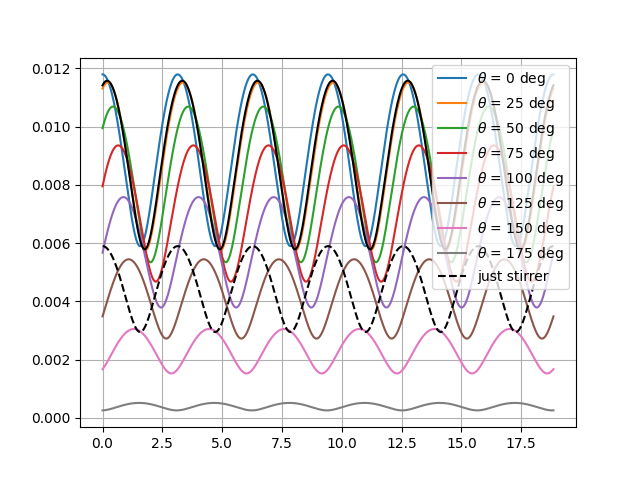
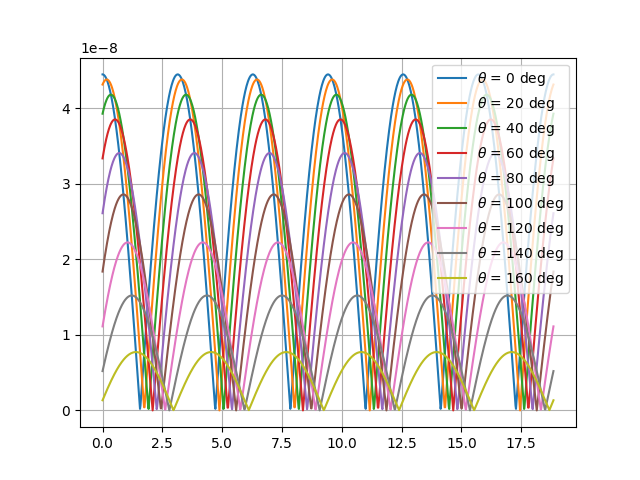
model

diff --git a/Simus/SimMagnetometre.py b/Simus/SimMagnetometre.py
@@ -1,6 +1,12 @@
 import numpy as np
-
+mu0 = 4*np.pi*1e-7
 # coords : (x,y) 
+
+def Hall(B,I=np.array((-1,0,0)),Rh=3,t=1):
+    Bext = np.concatenate((B,np.array([[0] for i in range(len(B))])),axis=1) #3e dim
+    print(Bext)
+    return np.array([np.linalg.norm(Rh*np.matmul(I/t,Be)) for Be in Bext])
+
 def base(r=np.array((3,0)),p=1,thetas = np.linspace(0,6*np.pi,1000)):
     pn,ps = np.array((.5,0)),np.array((-.5,0))
     def rotMatr(theta,v):
@@ -24,7 +30,7 @@ def base(r=np.array((3,0)),p=1,thetas = np.linspace(0,6*np.pi,1000)):
     a =  np.array([np.arctan2(*i) for i in h])
     return N,a
 
-def sim(a,r=np.array((3,0)),p=1,thetas = np.linspace(0,6*np.pi,1000),l=1):
+def sim(a,r=np.array((3,0)),p=1,thetas = np.linspace(0,6*np.pi,1000),l=1,returnB=False):
     pn,ps = np.array((l/2,0)),np.array((-l/2,0))
     alpha = a
     retard = alpha*np.pi/180 
@@ -43,7 +49,7 @@ def sim(a,r=np.array((3,0)),p=1,thetas = np.linspace(0,6*np.pi,1000),l=1):
 
     pN = [rotMatr(thetas[i],pn) for i in range(len(thetas))] #poles tournés
     pS = [rotMatr(thetas[i],ps) for i in range(len(thetas))]
-    h = [H(r,pS[i],pN[i]) for i in range(len(pS))] #champ vect
+    h = [H(r,pS[i],pN[i]) for i in range(len(pS))] #champ vect en fonction de la rotation
 
     pN2 = np.array([rotMatr(thetas[i]-retard,pn) for i in range(len(thetas))]) #idem pour 2e aimant
     pS2 = np.array([rotMatr(thetas[i]-retard,ps) for i in range(len(thetas))])
@@ -51,9 +57,8 @@ def sim(a,r=np.array((3,0)),p=1,thetas = np.linspace(0,6*np.pi,1000),l=1):
 
     htot = h+h2 #hypothese
     Ntot = np.array([np.linalg.norm(i) for i in htot]) #calculs norme et dir
-    atot = np.array([np.arctan2(*i) for i in htot])
-
-    return Ntot,atot
+    atot = np.array([(np.arctan2(*i)) if i[0]!=0 else np.arcsin(i[1]/np.linalg.norm(i)) for i in htot])
+    return (Ntot,atot) if not returnB else htot*mu0
     """fig=plt.figure()
 
 

diff --git a/Simus/pos.py b/Simus/pos.py
@@ -1,7 +1,19 @@
-from SimMagnetometre import sim
+from SimMagnetometre import sim, Hall
 import numpy as np
 import matplotlib.pyplot as plt
-grid = np.array([[(np.log(sim(0,np.array((x,y)), thetas = np.linspace(0,6*np.pi,1),l=3))[0]) for y in np.linspace(-5,5,100)] for x in np.linspace(-5,5,100)])
 
-plt.imshow(grid)
+
+grid = np.zeros((100,100))
+ax = np.linspace(-100,100,100)
+min = 10000
+for x in range(100):
+    for y in range(100):
+        v = Hall(sim(0,np.array((ax[x],ax[y])), thetas = np.linspace(0,6*np.pi,1),l=.1,returnB=True))
+        min = v if v<min else min
+        grid[x][y]=v
+grid+=abs(min)+1
+
+
+plt.imshow(np.log(grid))
+plt.colorbar()
 plt.savefig('sim.png')

diff --git a/Simus/demoAngles.py b/Simus/demoAngles.py
@@ -1,10 +1,11 @@
-from Simus.SimMagnetometre import sim,base
+from SimMagnetometre import sim,base,Hall
 import numpy as np
 import matplotlib.pyplot as plt
+
 thetas = np.linspace(0,6*np.pi,1000)
-for n in range(0,180,25):
-    plt.plot(thetas,sim(n)[0],label=r'$\theta$'+f' = {n} deg')
-plt.plot(thetas,base()[0],'k--',label='just stirrer')
+for n in range(0,180,20):
+    plt.plot(thetas,(Hall(sim(n,returnB=True))),label=r'$\theta$'+f' = {n} deg')
+#plt.plot(thetas,Hall(base()),'k--',label='just stirrer')
 plt.legend()
 plt.grid()
-plt.savefig('../demo.png')
+plt.savefig('demo.png')
